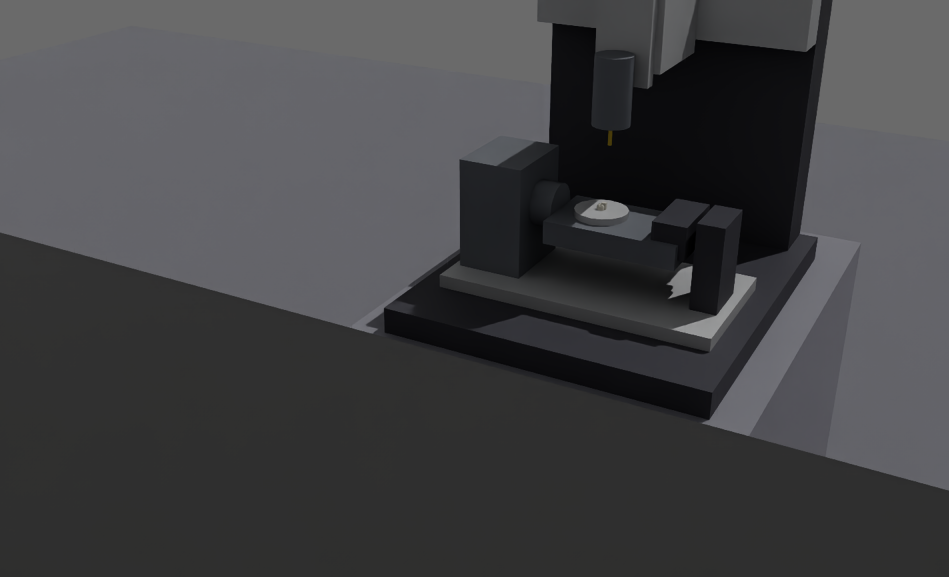
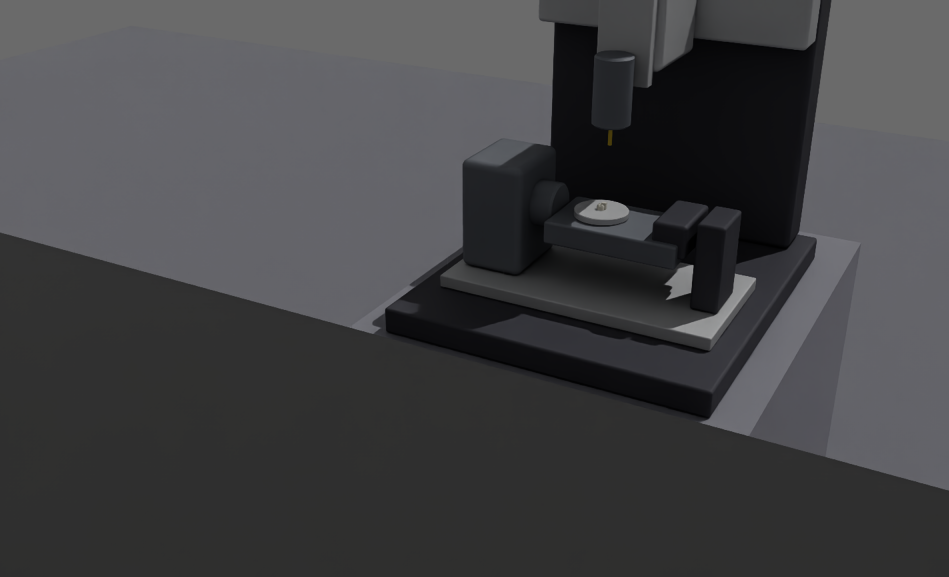
docs: STEP to USD upgrade decision, HOOPS option findings, README conversion quality

diff --git a/README.md b/README.md
@@ -26,7 +26,8 @@
 |---|---|
 | 라인 | 컨베이어, 투입(시드 고정), 밀링 스테이션(입구 대기 → 로딩 → 가공 → 언로딩), 검사선, 배출 푸셔와 bin |
 | 제품 | ① 박스(색상 결함) ② **실제 CAD 부품 KFL08 베어링 유닛**(색상, 부품 누락) ③ **치아 크라운**(블랭크 → 크라운; 셰이드, 미완성 가공) |
-| CAD 파이프라인 | `teeth_mill.urdf` → STEP 어셈블리(CadQuery) + `kinematics.json` → USD(Omniverse CAD converter, HOOPS) → 관절 forward kinematics 재적용 |
+| CAD 파이프라인 | `teeth_mill.urdf` → STEP 어셈블리(CadQuery, 필렛·챔퍼) + `kinematics.json` → USD(Omniverse CAD converter, HOOPS) → 관절 forward kinematics 재적용 |
+| STEP → USD 변환 | 자산 목록(`config/cad_assets.json`)으로 일괄 변환. 프로파일(machine/product), **측정으로 고른 테셀레이션 LOD**, STEP 메타데이터, 재질. 변환마다 기록(`.convert.json`)과 **품질 리포트**(`.report.json`: STEP B-rep 대비 부피·면적·크기 오차)를 남긴다 |
 | 비전 | 검사 Viewport(640×480) 프레임을 OpenCV로 판정. 색상(HSV hue 또는 Lab a*b*), 내부 밝기(누락), 기준 외곽선(`matchShapes` + 면적비) |
 | 동기화 | 동기 렌더링, 고정 시뮬레이션 스텝(1/60 s), **프레임 지정 캡처**(검사선을 통과한 update 번호의 프레임만 사용, 다르면 판정을 버림) |
 | 분류 | 제품 ID별 판정 → 배출선에서만 동작. 판정이 늦거나 없으면 fail-safe 배출 |
@@ -40,7 +41,7 @@
 flowchart LR
   subgraph CAD["CAD 자산 (오프라인, 스크립트)"]
     URDF[teeth_mill.urdf] -->|urdf_to_step| STP[STEP + kinematics.json]
-    STP -->|convert_step_to_usd<br/>HOOPS converter| MUSD[밀링기 USD]
+    STP -->|convert_all_cad<br/>HOOPS converter, LOD 3| MUSD[밀링기 USD]
     WEB[KFL08 STEP<br/>CC-BY-3.0] --> PUSD[부품 USD + 변형 레이어]
     DENT[CadQuery 크라운/블랭크] --> PUSD
   end
@@ -75,10 +76,23 @@ flowchart LR
 | KFL08 | 40 (정상 29, 색상 5, 누락 6) | 40/40 | 11/11 | TP 11, FP 0 |
 | 치아 크라운 | 40 (정상 29, 셰이드 5, 가공 6) | 40/40 | 11/11 | 밀링기 가동률 91.7 % |
 
-위 표는 Day 4~7 기록이다(뷰포트 기본 라이트 리그가 켜진 상태). 조명을 고친 뒤의 결과는 아래 Day 9 실험을 본다.
+위 표는 Day 4~7 기록이다(뷰포트 기본 라이트 리그가 켜진 상태, CAD 변환 LOD 0). 지금 조건의 결과는 아래 Day 9 실험을 본다.
+
+### STEP → USD 변환 품질
+처음에는 변환 LOD 0(extra low)을 써서 곡면이 거친 다각형이었다. LOD 0~4를 모두 변환해 **STEP B-rep(OpenCascade)의 정확한 부피와 비교**하고 자산별 LOD를 정했다(`compare_tess_lod.ps1`, [results/cad_lod/](results/cad_lod/)).
+
+| 자산 | 선택 LOD | 삼각형 (LOD 0 → 선택) | 부피 오차 (LOD 0 → 선택) | 이유 |
+|---|---|---|---|---|
+| 치아 크라운 | 3 | 608 → 16,774 | −1.68 % → −0.05 % | 근접 카메라 + 외곽선 검사 |
+| KFL08 | 2 | 8,896 → 67,208 | −1.35 % → −0.005 % | LOD 3은 삼각형 3.3배인데 부피 오차 개선 없음 |
+| 밀링기 | 3 | 384 → 31,040 (필렛 포함) | −0.03 % → −0.02 % | 필렛·챔퍼 곡면, 비용 작음. URDF 검증 bbox 편차 0 mm 유지 |
+
+![LOD별 삼각형 수와 부피 오차](docs/screenshots/readme_lod_compare.png)
+
+HOOPS의 `convertPhysicsData`는 이 STEP들에 속성을 쓰지 않아서(실측), 부피와 면적은 OpenCascade로 직접 계산했다.
 
 ### Day 9 실험 (조건 행렬)
-검사기는 **default 조명의 seed 1 run에서만 보정**했다(`config/inspector*.json`). 아래 평가는 seed 42 run이고, 평가 결과를 보고 임계값을 다시 맞추지 않았다.
+검사기는 **default 조명의 seed 1 run에서만 보정**했다(`config/inspector*.json`, 변환 LOD를 바꾼 뒤 다시 보정). 아래 평가는 seed 42 run이고, 평가 결과를 보고 임계값을 다시 맞추지 않았다.
 - 조건: `default`(기준), `dark`(조명 세기 35 %, 검사 화면 평균 밝기 −62 %), `fast`(컨베이어 1.5 m/s)
 - 실험 정의: [experiments/day9.json](experiments/day9.json) · 전체 표: [results/experiments/day9/table.md](results/experiments/day9/table.md) · 13개 run 모두 `check_run` 감사 통과
 
@@ -89,15 +103,15 @@ flowchart LR
 | **KFL08 dark** | 40 | 11 | **29** | 0 | 0 | **0.28** | 1.00 | **0.28** |
 | KFL08 fast | 40 | 11 | 0 | 0 | 29 | 1.00 | 1.00 | 1.00 |
 | crown default | 40 | 11 | 0 | 0 | 29 | 1.00 | 1.00 | 1.00 |
-| **crown dark** | 40 | 11 | **2** | 0 | 27 | **0.85** | 1.00 | **0.95** |
+| **crown dark** | 40 | 11 | **3** | 0 | 26 | **0.79** | 1.00 | **0.93** |
 | crown fast | 40 | 11 | 0 | 0 | 29 | 1.00 | 1.00 | 1.00 |
 
 ![조건별 분류 성공률](results/experiments/day9/fig_vision.png)
 
 **해석 (원인은 inspections.csv의 판정 이유로 확인)**
 - **결함을 놓친 경우는 없다**(모든 조건 recall 1.00). 어두워지면 정상품을 불량으로 보는 **안전 쪽 오류**가 생긴다.
-- KFL08 dark: 누락 검사가 "밝은 픽셀(V ≥ 140) 비율"이라는 **절대 밝기 임계값**을 쓴다. 조명이 어두워지자 정상품의 내부 밝기가 0.00이 되어(기준 ≥ 0.156) 정상 29개가 모두 "누락"으로 판정됐다. 색(hue) 점수는 0.97~0.99로 정상이었다.
-- crown dark: 밝기로 크라운을 분리하면 그림자 쪽 가장자리가 빠져, 면적비가 0.95로 허용 한계(±5 %)에 걸렸다(2건). 외곽선 거리(≤ 0.013)와 셰이드 점수(1.00)는 정상이었다.
+- KFL08 dark: 누락 검사가 "밝은 픽셀(V ≥ 140) 비율"이라는 **절대 밝기 임계값**을 쓴다. 조명이 어두워지자 정상품의 내부 밝기가 0.00이 되어(기준 ≥ 0.161) 정상 29개가 모두 "누락"으로 판정됐다. 색(hue) 점수는 0.97~0.99로 정상이었다.
+- crown dark: 밝기로 크라운을 분리하면 그림자 쪽 가장자리가 빠져, 면적비가 0.95로 허용 한계(±5 %)에 걸렸다(3건). 외곽선 거리(≤ 0.011)와 셰이드 점수(1.00)는 정상이었다.
 - box: hue와 채도는 조명 세기에 거의 영향을 받지 않아 dark에서도 그대로였다.
 - 속도(1.5 m/s): 동기 렌더링, 고정 스텝, 프레임 지정 캡처 덕분에 세 제품 모두 영향이 없었다(late 0, frame mismatch 0).
 
@@ -114,7 +128,7 @@ flowchart LR
 
 투입 간격이 사이클(3 s) 이하이면 **밀링기가 병목**이다. 간격을 줄여도 처리량은 늘지 않고 대기열만 길어진다. 간격이 사이클보다 길면 밀링기가 논다. 가동률이 100 %가 아닌 것은 로딩, 언로딩, 첫 제품 도착 전 시간 때문이다.
 
-**참고: 캡처 지연(벽시계)** 은 run마다 평균 130~1200 ms로 차이가 컸다. 실험하는 동안 PC를 다른 작업과 함께 쓴 영향으로 보인다(추정, 따로 측정하지 않음). 시뮬레이션은 고정 스텝이라 판정과 분류에는 영향이 없었지만, 이 값을 실시간 성능 지표로 쓰면 안 된다. 판정 자체(OpenCV)는 조건별 평균 1.3~8.7 ms다.
+**참고: 캡처 지연(벽시계)** 은 이번 실험에서 조건별 평균 121~136 ms였다. 같은 행렬을 PC를 다른 작업과 함께 쓰면서 돌렸을 때는 130~1200 ms까지 흔들렸다(`results/experiments/day9_lod0/`). 시뮬레이션은 고정 스텝이라 두 경우 모두 판정과 분류에는 영향이 없었다(late 0, mismatch 0). 다만 이 값은 PC 부하에 따라 달라지므로 실시간 성능 지표로 쓰면 안 된다. 판정 자체(OpenCV)는 조건별 평균 1.3~8.7 ms다.
 
 ## 5. 설치와 실행
 
@@ -124,7 +138,7 @@ flowchart LR
 | OS | Windows 11 Pro (10.0.26200) |
 | GPU | NVIDIA RTX 4060 8 GB, 드라이버 610.88 (RTX 필요) |
 | Kit | Omniverse Kit SDK **110.4.0** (kit-app-template 브랜치 `110.4.0`, `kit_base_editor` 기반) |
-| CAD 변환기 | `omni.kit.converter.hoops_core` 512.2.1 (옵션: `config/cad_converter_options.json`) |
+| CAD 변환기 | `omni.kit.converter.hoops_core` 512.2.1 (프로파일: `config/cad_converter_options.json`, 자산별 LOD: `config/cad_assets.json`) |
 | Python (Kit 밖) | 3.12, `scripts/requirements-dev.txt` (테스트·분석), `scripts/requirements-cad.txt` (CadQuery 2.8.0, usd-core 26.11) |
 
 ### 처음부터 실행
@@ -150,9 +164,10 @@ python -m pip install -r scripts\requirements-dev.txt
 ```powershell
 .\scripts\setup_cad_env.ps1
 .\scripts\urdf_to_step.ps1                                       # reference/teeth_mill.urdf → assets/cad/teeth_mill.stp
-.\scripts\convert_step_to_usd.ps1 -Stp assets\cad\teeth_mill.stp
-.\scripts\verify_cad_usd.ps1                                     # 링크 6/6, 부품 16/16, 색 16/16, bbox 편차 0 mm
-.\scripts\fetch_parts.ps1; .\scripts\make_dental_parts.ps1; .\scripts\make_part_variants.ps1 -Part crown
+.\scripts\fetch_parts.ps1; .\scripts\make_dental_parts.ps1           # 부품 STEP 받기 / 치과 모델 STEP 만들기
+.\scripts\convert_all_cad.ps1                                    # 전체 STEP → USD + 품질 리포트 + 밀링기 URDF 검증(bbox 편차 0 mm)
+.\scripts\make_part_variants.ps1 -Part kfl08; .\scripts\make_part_variants.ps1 -Part crown
+.\scripts\compare_tess_lod.ps1 -Stp assets\parts\raw\dental_crown.step   # (선택) LOD 0~4 비교
 ```
 스크립트 전체 설명: [docs/topics/스크립트 목록.md](docs/topics/스크립트%20목록.md)
 
@@ -177,8 +192,10 @@ docs/                                          Obsidian 노트: 결정, 변경, 
 - **시뮬레이션의 한계:** 반송은 키네마틱(물리 없음)이고, 밀링기 관절 동작은 시각용이다(G-code 없음). 가공 사이클 3 s는 압축 시간이고, 치수와 감속비는 URDF의 임시값이다.
 - **렌더 조건이 단순함:** 노이즈, 블러, 렌즈 왜곡, 재질 변화가 없다. 실제 카메라에 적용하려면 실측 이미지로 다시 보정해야 한다.
 - **실행 속도:** 동기 렌더링과 고정 스텝을 쓰기 때문에 GUI가 실시간보다 느리게(슬로모션처럼) 보일 수 있다. Day 9의 크라운 40개 run은 4~20분 걸렸다(PC 부하에 따라 다름).
+- **HOOPS 물리량 미출력:** `convertPhysicsData`를 켜도 이 STEP들에는 `omni:hoops:physics:*` 속성이 생기지 않았다(원인 미확인). B-rep 부피와 면적은 OpenCascade로 대신 계산한다.
+- **밀링기 형상:** URDF가 박스와 원통뿐이라 필렛과 챔퍼로 다듬었지만 실제 기계의 상세 형상은 아니다.
 - **뷰포트 라이트 리그:** Kit은 새 stage에 기본 라이트 리그를 자동으로 넣는다. 확장이 씬을 만든 뒤 Stage Lights로 바꾸지만, GUI에서 사용자가 조명 메뉴를 바꾸면 화면이 보정 조건과 달라진다.
-- **Day 4~7 기록 수치**(위 "개별 평가 run")는 라이트 리그가 켜진 화면에서 측정한 값이다. 지금 화면 기준 수치는 Day 9 표다.
+- **Day 4~7 기록 수치**(위 "개별 평가 run")는 라이트 리그가 켜지고 CAD 변환 LOD 0인 화면에서 측정한 값이다. 지금 화면 기준 수치는 Day 9 표다.
 - 검증 환경은 Windows + RTX 4060 한 대뿐이다. Linux와 다른 GPU에서는 확인하지 않았다.
 
 ## 8. 개선 계획

diff --git a/docs/decisions/2026-10-23 STP to USD 변환 강화.md b/docs/decisions/2026-10-23 STP to USD 변환 강화.md
@@ -1,0 +1,34 @@
+---
+type: decision
+date: 2026-10-23
+tags: [visiontwin, cad, usd-converter, tessellation]
+related: ["[[USD converter (HOOPS) 동작과 출력 구조]]", "[[HOOPS 변환 옵션 실측 (LOD, 문자열 인자, 물리량)]]", "[[2026-10-23 STP to USD 변환 강화 작업]]"]
+---
+
+# STP to USD 변환 강화
+
+## 배경
+사용자 피드백: "부품이 단순히 네모로 보인다." 원인은 세 가지였다.
+1. 변환 옵션이 사용자 `usd_converter`에서 가져온 `tessLOD=0`(extra low)이었다. 곡면이 거친 다각형이 됐다. 크라운은 삼각형 608개, 밀링기 전체는 384개였다.
+2. 밀링기 STEP은 URDF의 박스와 원통을 그대로 만든 것이라 모서리가 모두 날카로웠다.
+3. GUI를 열면 기본 제품이 박스 라인이었다.
+
+## 결정
+| 항목 | 결정 |
+|---|---|
+| 변환 프로파일 | `config/cad_converter_options.json`를 `profiles`(legacy / machine / product)로 바꾼다. `convert_step_to_usd.ps1 -Profile`로 고른다 |
+| 자산 목록 | `config/cad_assets.json`: 자산별 STEP, USD, 프로파일, **LOD와 그 근거**. `convert_all_cad.ps1`이 전부 다시 변환하고 리포트와 URDF 검증까지 한다 |
+| LOD 선택 | 측정으로 정한다(`compare_tess_lod.ps1`): 크라운 3, 블랭크 3, 미완성 크라운 3, 밀링기 3, KFL08 2 |
+| 품질 검증 | `report_cad_usd.ps1`: USD 메시 부피와 면적을 **STEP B-rep(OpenCascade)의 정확한 값**과 비교, 크기 차이, 메타데이터, 재질 수 |
+| 변환 기록 | 변환마다 `<usd>.convert.json`: 변환기 버전, 실제 옵션, 원본 SHA256, 시간, 크기 |
+| 사용하는 HOOPS 기능 | `tessLOD`, `accurateSurfaceCurvatures`, `useNormals`, `useMaterials` + `materialType=1`(UsdPreviewSurface), `convertMetadata`(STEP 제품 ID와 이름을 `omni:hoops:metadata:*`로), `sceneOpGenerateUVs`, instancing |
+| 밀링기 형상 | `urdf_to_step.py`: 박스 모서리에 필렛(최소 변 × 0.12), 원통 끝에 챔퍼(× 0.1). 평면은 URDF 크기까지 그대로라 bbox는 변하지 않는다(검증 0 mm) |
+| GUI 기본 제품 | `part = "crown"`(치아 밀링 라인). 스크립트는 제품을 명시한다(`bench_render`는 box로 고정) |
+
+## 쓰지 않은 것과 이유
+- `convertPhysicsData`(B-rep 부피, 무게중심 등): 옵션은 적용됐다는 로그가 나오지만, 이 STEP들에는 속성을 하나도 쓰지 않았다. instancing을 끄거나 `physicsUseGeometryOnRiBRep`을 켜도 같았다. 그래서 B-rep 물리량은 OpenCascade로 직접 계산한다 → [[HOOPS 변환 옵션 실측 (LOD, 문자열 인자, 물리량)]]
+- `materialType=2`(OmniPBR): 제품은 변형 레이어가 재질을 다시 바인딩하므로 효과가 없다. 밀링기의 색 검증도 PreviewSurface 기준이라 1로 둔다.
+- LOD 4: 크라운 기준 삼각형이 1.8배 늘지만 부피 오차는 0.05 %에서 0.03 %로만 준다.
+
+## 영향
+렌더 모양이 바뀌어서 KFL08과 크라운 검사기를 다시 보정했다(seed 1). Day 9 실험도 다시 실행했다. 이전 결과는 `results/experiments/day9_lod0/`에 보관한다.

diff --git a/docs/learnings/HOOPS 변환 옵션 실측 (LOD, 문자열 인자, 물리량).md b/docs/learnings/HOOPS 변환 옵션 실측 (LOD, 문자열 인자, 물리량).md
@@ -1,0 +1,40 @@
+---
+type: learning
+date: 2026-10-23
+tags: [visiontwin, cad, usd-converter, hoops]
+related: ["[[USD converter (HOOPS) 동작과 출력 구조]]", "[[2026-10-23 STP to USD 변환 강화]]"]
+---
+
+# HOOPS 변환 옵션 실측 (LOD, 문자열 인자, 물리량)
+
+`omni.kit.converter.hoops_core` 512.2.1, Kit 110.4. 옵션 문서는 확장 폴더의 `docs/SKILL.md`, `docs/Overview.md`, 기본값 예시는 `docs/converter_config_example.json`에 있다(`%LOCALAPPDATA%/ov/data/exts/v2/omni.kit.converter.hoops_core-512.2.1+110.1.2...`).
+
+## 1. 옵션 값은 문자열이어야 한다
+`create_converter_task(src, dst, options)`의 options를 JSON 그대로(`true`, `3`) 넘기면 실패한다.
+```
+TypeError: parseArgs(): incompatible function arguments ... args: Dict[str, str]
+```
+→ `convert_step_to_usd.py`에서 bool은 `"true"/"false"`, 숫자는 `str()`로 바꾼다. 설정 파일에는 자연스러운 JSON 타입을 쓴다.
+
+## 2. 반환값
+`create_converter_task`는 `(output_url, status)`를 돌려준다. 성공은 `status.error_code == 0`. 이전 스크립트는 파일이 생겼는지만 봤다. 지금은 둘 다 확인한다.
+
+## 3. 테셀레이션 LOD (실측, `results/cad_lod/`)
+| 자산 | LOD 0 | LOD 2 | LOD 3 | LOD 4 |
+|---|---|---|---|---|
+| 크라운 삼각형 / 부피 오차 | 608 / −1.68 % | 8,002 / −0.12 % | 16,774 / −0.05 % | 30,700 / −0.03 % |
+| KFL08 삼각형 / 부피 오차 | 8,896 / −1.35 % | 67,208 / −0.005 % | 219,852 / −0.007 % | 283,568 / +0.003 % |
+| 밀링기(원본 URDF 형상) | 384 / −0.03 % | 1,024 / −0.002 % | 1,920 / −0.0005 % | 2,688 / −0.0004 % |
+
+- 테셀레이션은 꼭짓점을 실제 곡면 위에 두므로 부피가 항상 조금 작게 나온다(음수 오차). 오차가 곡면의 거친 정도를 보여 준다.
+- KFL08은 LOD 2→3에서 삼각형이 3.3배 늘지만 부피 오차는 줄지 않는다. 면적 오차만 0.087 → 0.037 %로 준다.
+- 변환 시간은 모두 4초 이하라 차이가 없다. 파일 크기는 삼각형 수에 비례한다.
+- 크기(bbox) 차이는 모든 LOD에서 0.000 mm였다. 다만 B-rep bbox는 `BRepBndLib.AddOptimal`로 구해야 한다. `Add`는 느슨해서 0.5~2.2 mm 차이가 나는 것처럼 보였다.
+
+## 4. `convertPhysicsData`는 이 STEP들에 아무것도 쓰지 않았다
+- 로그에는 `convertPhysicsData: true`, `physicsAccuracyLevel: 0.99`가 찍힌다.
+- 그런데 출력 USD의 어느 spec에도 `omni:hoops:physics:*`가 없었다. CadQuery로 만든 크라운과 FreeCAD 라이브러리의 KFL08 모두 그랬고, `instancing=false`나 `physicsUseGeometryOnRiBRep=true`로 바꿔도 같았다.
+- 원인은 확인하지 못했다. 대신 `report_cad_usd.py`가 OpenCascade(`BRepGProp`)로 정확한 부피와 면적을 계산한다.
+
+## 5. `convertMetadata`
+STEP 제품 ID와 이름이 프림 속성으로 들어간다: `omni:hoops:metadata:__STEP:ProductID`, `...:ProductName`. 밀링기는 46개, KFL08은 60개다. 이름이 인코딩된 프림(`tn__1_` 등)도 원래 STEP 이름을 찾을 수 있다.

diff --git a/docs/changes/2026-10-23 STP to USD 변환 강화 작업.md b/docs/changes/2026-10-23 STP to USD 변환 강화 작업.md
@@ -1,0 +1,36 @@
+---
+type: change
+date: 2026-10-23
+tags: [visiontwin, cad, usd-converter, experiment]
+related: ["[[2026-10-23 STP to USD 변환 강화]]", "[[HOOPS 변환 옵션 실측 (LOD, 문자열 인자, 물리량)]]", "[[2026-10-23 Day9 실험 2차 결과]]"]
+---
+
+# STP to USD 변환 강화 작업
+
+결정과 이유: [[2026-10-23 STP to USD 변환 강화]]
+
+## 변경 파일
+| 파일 | 내용 |
+|---|---|
+| `config/cad_converter_options.json` | `profiles`: legacy(이전 설정) / machine / product |
+| `config/cad_assets.json` (새 파일) | 자산 5개: STEP, USD, 프로파일, LOD와 근거, URDF 검증 여부 |
+| `scripts/convert_step_to_usd.ps1/.py` | `-Profile`, `-TessLOD`. 옵션을 문자열로 바꿔 전달. `status.error_code` 확인. `<usd>.convert.json` 기록 |
+| `scripts/convert_all_cad.ps1` (새 파일) | 목록 전체(또는 `-Name` 하나)를 변환 → 리포트 → (밀링기) URDF 검증 |
+| `scripts/report_cad_usd.ps1/.py` (새 파일) | USD 메시 통계 + STEP B-rep(OpenCascade) 부피·면적·bbox와 비교 → `<usd>.report.json` |
+| `scripts/compare_tess_lod.ps1`, `summarize_tess_lod.py` (새 파일) | LOD 0~4 변환과 비교 → `results/cad_lod/<자산>/table.md`, `lod_compare.png` |
+| `scripts/urdf_to_step.py` | 박스 필렛(최소 변 × 0.12), 원통 챔퍼(× 0.1) |
+| `source/apps/visiontwin.app.kit` | GUI 기본 제품 `part = "crown"` |
+| `scripts/bench_render.ps1` | `part=box` 명시(기본값이 바뀌어도 같은 벤치마크) |
+| `.gitignore` | `results/cad_lod/**/*.usd` 제외(리포트와 표만 커밋) |
+
+## 결과 (실측)
+- 재변환: 밀링기 LOD 3 = 31,040 삼각형(필렛 포함), URDF 검증 **VERIFIED**(bbox 편차 0 mm). KFL08 LOD 2 = 67,208, 크라운 LOD 3 = 16,774, 블랭크 140, 미완성 크라운 6,559. 모든 자산의 부피 오차는 |0.07 %| 이하.
+- 렌더 확인(`render_smoke -Part crown/kfl08 -ViewScale 1.0`): 오류 0, 밀링기 모서리가 둥글게 렌더된다.
+- 재보정(seed 1): KFL08 `run 20261023_150006_seed1` → `interior_bright_min` 0.161. 크라운 `20261023_150142_seed1` → 정상 외곽선 거리 최대 0.012, `shape_dist_max` 0.023.
+- Day 9 재실행(`results/experiments/day9/`, 이전 결과는 `day9_lod0/`): 13개 run 감사 OK.
+  - default, fast: 세 제품 모두 1.00
+  - KFL08 dark: FP 29 (그대로, 절대 밝기 누락 검사)
+  - crown dark: FP 2 → **3** (원인 같음: 면적비 0.95)
+  - 라인 용량: 같음
+  - 캡처 지연: 조건별 평균 121~136 ms로 안정. 지난번에는 PC 부하 때문에 130~1200 ms였다.
+- `test_core.ps1` → 71 passed

diff --git a/docs/topics/스크립트 목록.md b/docs/topics/스크립트 목록.md
@@ -32,9 +32,12 @@ related: ["[[2026-10-21 작업 규칙 - 스크립트화와 Obsidian 문서화]]"
 | `collect_frames.ps1 [-Seed 42] [-Products 30] [-Speed 0.5]` | 1회 전체 run: 프레임, 실시간 판정, 배출 → inspections.csv, results.csv, summary.json (`collect_frames.py`) | 데이터 수집, 실험 |
 | `compare_runs.ps1 -RunA <a> -RunB <b>` | 두 run의 results.csv 결정론적 컬럼 비교(재현성) | 같은 시드 재실행 후 |
 | `setup_cad_env.ps1` | CAD용 venv(.venv-cad: cadquery, usd-core) | 최초 1회 |
-| `urdf_to_step.ps1 [-Urdf]` | URDF → STEP 어셈블리(mm, 색) + kinematics.json | URDF 변경 시 |
+| `urdf_to_step.ps1 [-Urdf]` | URDF → STEP 어셈블리(mm, 색, 박스 필렛·원통 챔퍼; URDF bbox 유지) + kinematics.json | URDF 변경 시 |
 | `probe_cad_converter.ps1 -Stp <f>` | Gate C 진단: USD converter로 STP 1개 변환, 구조 출력 | 변환기 문제 조사 |
-| `convert_step_to_usd.ps1 -Stp <f> [-Out]` | USD converter(HOOPS)로 STEP → USD (`config/cad_converter_options.json`) | STP 변경 시 |
+| `convert_step_to_usd.ps1 -Stp <f> [-Out] [-Profile product] [-TessLOD n]` | USD converter(HOOPS)로 STEP → USD. 옵션은 `config/cad_converter_options.json`의 프로파일(legacy/machine/product). `<usd>.convert.json`에 변환 기록 | STP 하나만 변환할 때 |
+| `convert_all_cad.ps1 [-Name]` | `config/cad_assets.json`의 자산 전체를 자산별 프로파일과 LOD로 다시 변환 + 품질 리포트 + 밀링기 URDF 검증 | STP나 변환 옵션을 바꾼 뒤 |
+| `report_cad_usd.ps1 -Usd <u> -Step <s>` | 변환 품질 리포트: 메시/삼각형/재질/메타데이터, STEP B-rep 대비 부피·면적·크기 오차 → `<usd>.report.json` (.venv-cad) | 변환 후 |
+| `compare_tess_lod.ps1 -Stp <f>` | LOD 0~4로 각각 변환해 삼각형 수와 정확도를 비교 → `results/cad_lod/<이름>/table.md`, `lod_compare.png` (`summarize_tess_lod.py`) | 자산 LOD를 정할 때 |
 | `verify_cad_usd.ps1 [-Name]` | 변환 USD를 URDF와 비교(이름, 위치, bbox, 색) | 변환 후 매번 |
 | `fetch_parts.ps1 [-Name]` | `assets/parts/sources.json`의 부품 STEP 다운로드 + SHA256 확인 | 최초, 부품 추가 시 |
 | `inspect_step.ps1 -Path <glob>` | STEP 어셈블리 구조, 솔리드 수, 색, 크기 출력 | 부품 후보 평가 |

diff --git a/docs/00_Index.md b/docs/00_Index.md
@@ -20,6 +20,7 @@ tags: [visiontwin, index]
 - [[2026-10-22 CAD 자산 파이프라인 추가 (URDF→STP→USD)]]
 - [[2026-10-22 실제 CAD 부품을 제품으로 사용]]
 - [[2026-10-22 치아 밀링 가공 라인으로 확장]]
+- [[2026-10-23 STP to USD 변환 강화]]
 
 ## Changes (코드 수정)
 - [[2026-10-21 Day1 visiontwin.factory 확장 골격과 팩토리 씬]]
@@ -32,6 +33,7 @@ tags: [visiontwin, index]
 - [[2026-10-22 Day8 대시보드와 이벤트 로그]]
 - [[2026-10-22 Day9 실험 1차 (조명 무효)]]
 - [[2026-10-23 Day9 실험 2차 결과]]
+- [[2026-10-23 STP to USD 변환 강화 작업]]
 
 ## Learnings (새로 알게 된 점)
 - [[2026-10-21 환경 점검 결과]]
@@ -50,6 +52,7 @@ tags: [visiontwin, index]
 - [[공정 스테이션 교착 (출구 막힘 판정)]]
 - [[뷰포트 자동 라이트 리그가 조명 조건을 무력화]]
 - [[절대 밝기 임계값은 어두운 조명에서 정상품을 불량으로 본다]]
+- [[HOOPS 변환 옵션 실측 (LOD, 문자열 인자, 물리량)]]
 
 ## Progress
 - [[2026-10-21 Progress]]

diff --git a/docs/progress/2026-10-23 Progress.md b/docs/progress/2026-10-23 Progress.md
@@ -12,6 +12,10 @@ related: ["[[2026-10-22 Progress]]"]
   - dark 조건에서 실제 약점 발견: KFL08 FP 29, crown FP 2 (recall은 모두 1.00) → [[절대 밝기 임계값은 어두운 조명에서 정상품을 불량으로 본다]]
 - **Day 9 완료.** Day 10: 프로젝트 README(결과, 설치, Known Issues, 라이선스), README 이미지, `requirements-dev.txt`, 면접 질문 Q8 갱신
 
+- **STP to USD 변환 강화** (사용자 요청: "부품이 네모로 보인다") → [[2026-10-23 STP to USD 변환 강화 작업]]
+  - 변환 프로파일 + 자산 목록 일괄 변환, 측정 기반 LOD(크라운 608 → 16,774 삼각형, 부피 오차 −1.68 → −0.05 %), B-rep 대비 품질 리포트, 밀링기 필렛·챔퍼, GUI 기본 제품을 크라운으로
+  - 재보정 + Day 9 재실행: 결과는 거의 같음(crown dark FP 2 → 3)
+
 ## Blocked
 - 없음
 
